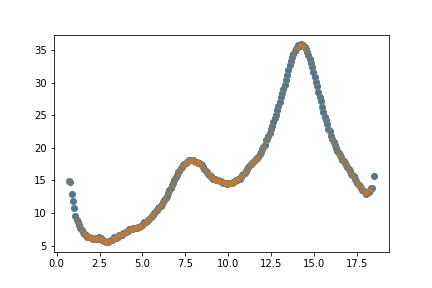
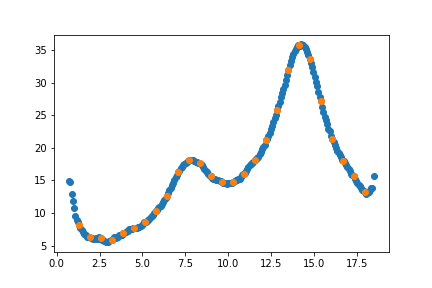
Updated optimization script and results

Changed region(s): [[0.1505, 0.125, 0.8727, 0.875]]

diff --git a/day4_exercises/scipy_opt.py b/day4_exercises/scipy_opt.py
@@ -22,9 +22,9 @@ exp_data = exp_data[~np.isnan(exp_data[:, 0])]
 
 model_x = interp1d(exp_data[:, 0], exp_data[:, 1], kind = 'nearest')
 
-new_x = np.linspace(min(exp_data[:, 0]), max(exp_data[:, 0]), len(exp_data))
+new_x = np.linspace(min(exp_data[:, 0]), max(exp_data[:, 0]), 30)
 new_y = model_x(new_x)
 
 plt.scatter(exp_data[:, 0], exp_data[:, 1])
-plt.scatter(new_x, new_y, alpha = 0.2)
+plt.scatter(new_x, new_y)
 plt.savefig('approximation.png')
